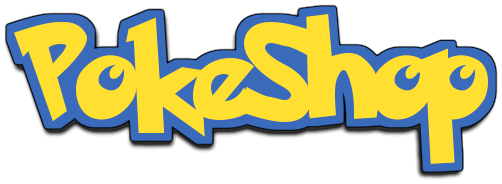
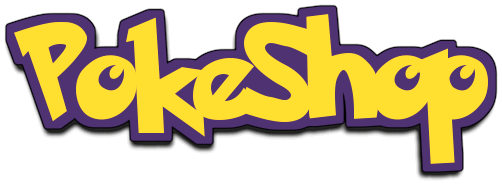
finished homepage

Changed region(s): [[0.0, 0.0272, 1.0, 0.9511], [0.3287, 0.4348, 0.3884, 0.5978]]

diff --git a/src/pages/Home.js b/src/pages/Home.js
@@ -1,16 +1,37 @@
 import React from "react";
 import "../styles/pages.css";
 import Navbar from "../components/Navbar";
+import Showcase from "../images/showcase.png";
+import {Link} from "react-router-dom";
 
 class Home extends React.Component {
     render() {
         return (
             <div className="homepage">
                 <Navbar/>
+                <div className="mainContainer">
+                    <MainSeller/>
+                </div>
             </div>
         );
     }
 }
 
+function MainSeller(props) {
+    return (
+        <div className="mainSeller">
+            <h3>Purchase Some Of The Worlds Most Rare Pokemons!</h3>
+            <img src={Showcase} alt="showcase"/>
+            <p>Our pokemons are treated humanely, caught in the wild and kept in
+                open areas free to roam and provided with the best medical care known to man.
+            </p>
+            <div className="shopCollection">
+                <Link to="/shop">
+                    <p>Shop Our Collection Now</p>
+                </Link>
+            </div>
+        </div>
+    )
+}
 
 export default Home;

diff --git a/src/styles/pages.css b/src/styles/pages.css
@@ -1,3 +1,58 @@
 html {
     height: 100%;
+    /*background-color: black;*/
+    background: url("../images/background.png");
+    font-family: "Arial Rounded MT Bold", serif;
 }
+
+/*Home Page*/
+.mainContainer {
+    display: flex;
+    justify-content: center;
+
+    padding: 20px;
+}
+
+/*MainSeller Component*/
+.mainSeller {
+    width: 75%;
+    max-width: 700px;
+    min-width: 500px;
+    min-height: 100%;
+
+    border-radius: 5%;
+    border: solid black 2px;
+    padding: 10px;
+
+    text-align: center;
+
+    /*background-color: #467c9f;*/
+    background: url("../images/a.jpeg");
+}
+
+.mainSeller img {
+    width: 100%;
+    height: 350px;
+
+    border-radius: 5%;
+}
+
+/*Shop Our Collection Button*/
+.shopCollection {
+    width: 250px;
+
+    border: solid black 5px;
+    border-radius: 5%;
+
+    margin: 0 auto;
+
+    background-color: #492e69;
+}
+
+.shopCollection p {
+    color: white;
+    font-size: 20px;
+}
+
+
+

diff --git a/src/styles/components.css b/src/styles/components.css
@@ -11,7 +11,9 @@ body {
     align-items: center;
     justify-content: space-between;
 
-    background: url("../images/background.png") no-repeat;
+    background: url("../images/a.jpeg");
+    /*background: url("../images/background.png");*/
+    border-bottom: solid black 4px;
 }
 
 /*Navbar Title/Logo Properties*/
@@ -34,24 +36,24 @@ body {
 }
 
 .navbar-links li {
-    color: yellow;
+    color: black;
     font-size: 25px;
     font-weight: bolder;
 
     padding: 20px 30px 20px 30px;
     margin-right: 10px;
 
-    border-bottom: solid yellow 5px;
+    border-bottom: solid #492e69 5px;
 }
 
 .navbar-links li:hover {
-    color: royalblue;
-    background-color: yellow;
+    background-color: #572665;
+    color: white;
     border-radius: 10%;
 
-    transform: scale(1.2);
+    transform: scale(1.1);
 
-    border: solid yellow 1px;
+    border: solid #caaa9d 1px;
 }
 
 a:hover, a:visited, a:link, a:active {

diff --git a/src/pages/Shop.js b/src/pages/Shop.js
@@ -7,7 +7,7 @@ class Shop extends React.Component {
         return (
             <div className="Shop">
                 <Navbar/>
-                <h1>Shop</h1>
+                <h1>Shop Here</h1>
             </div>
         );
     }
